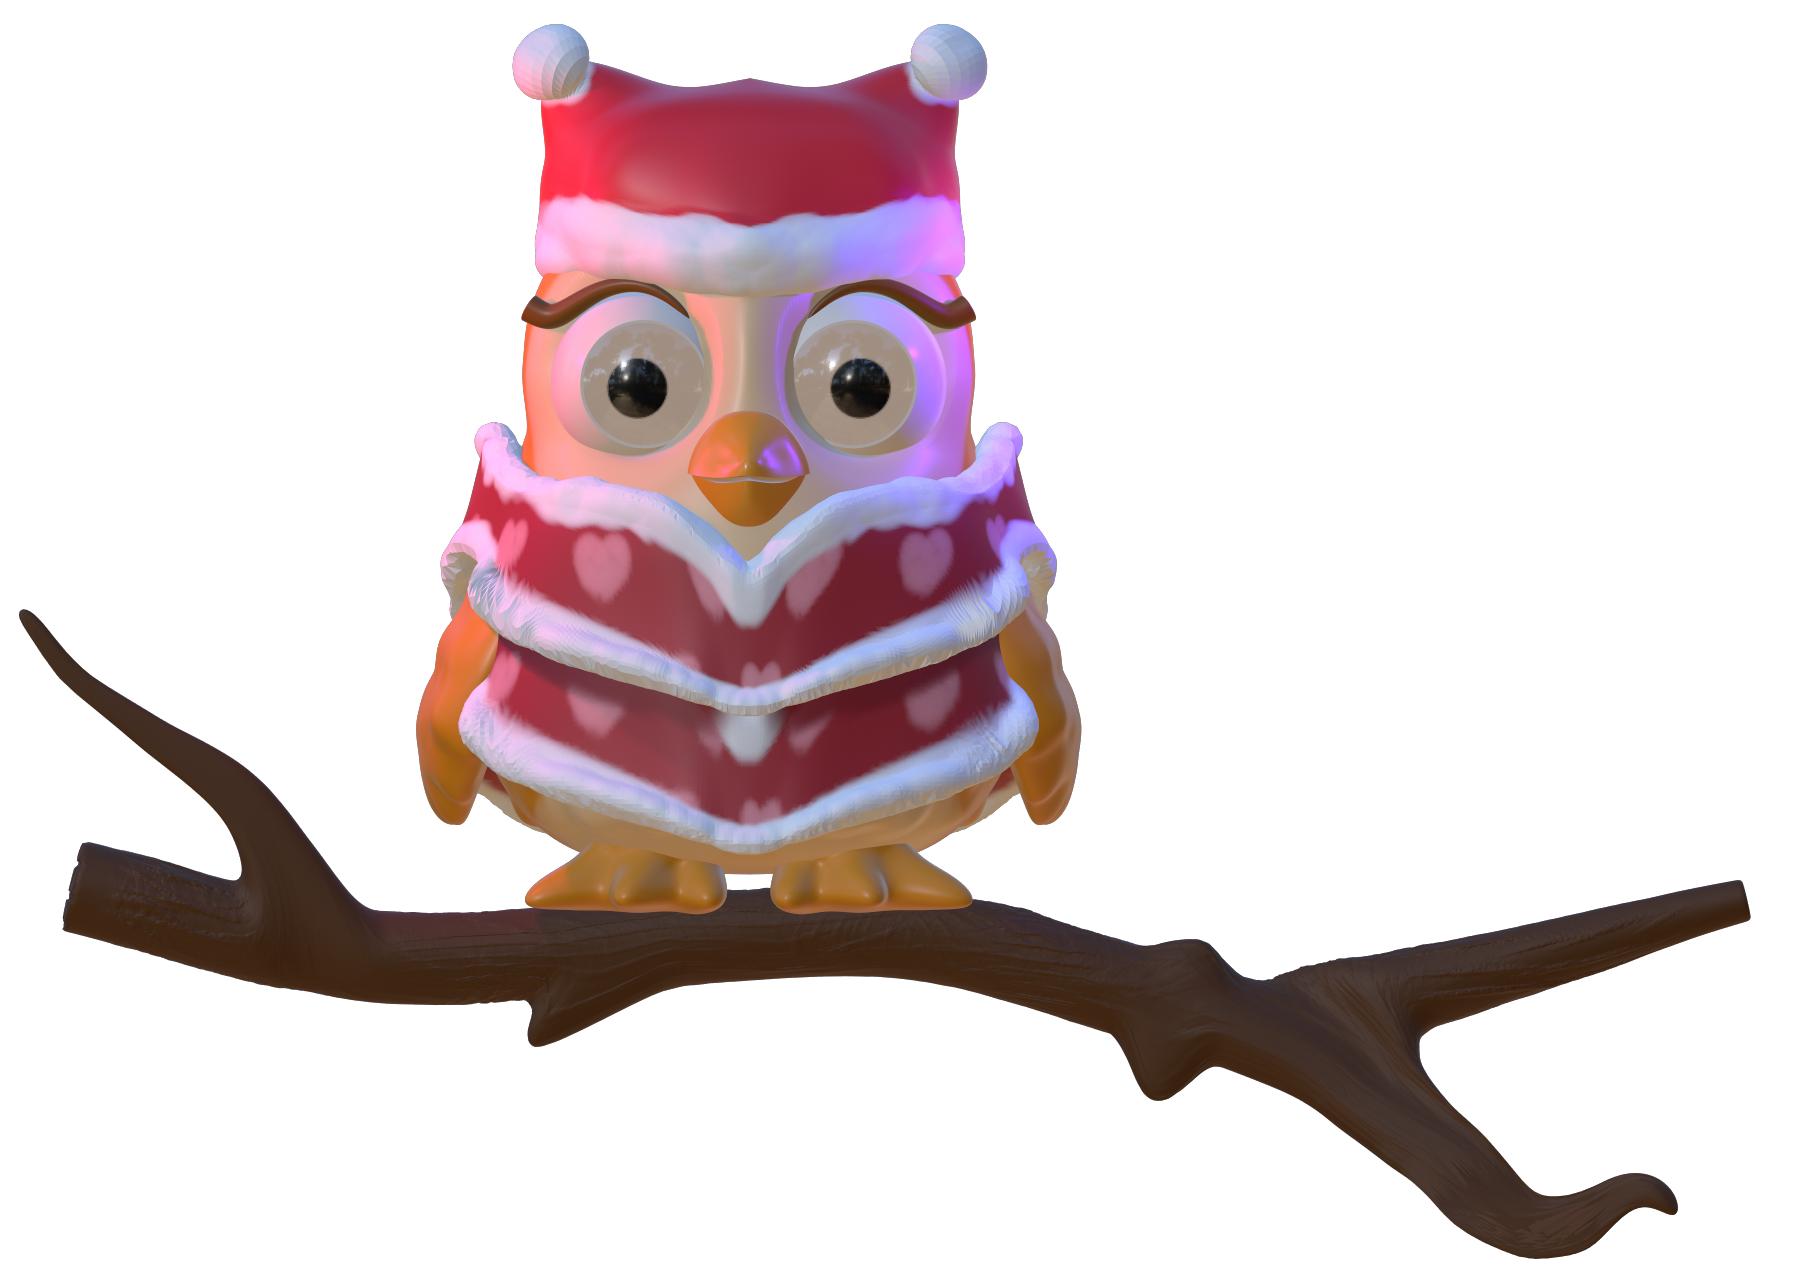
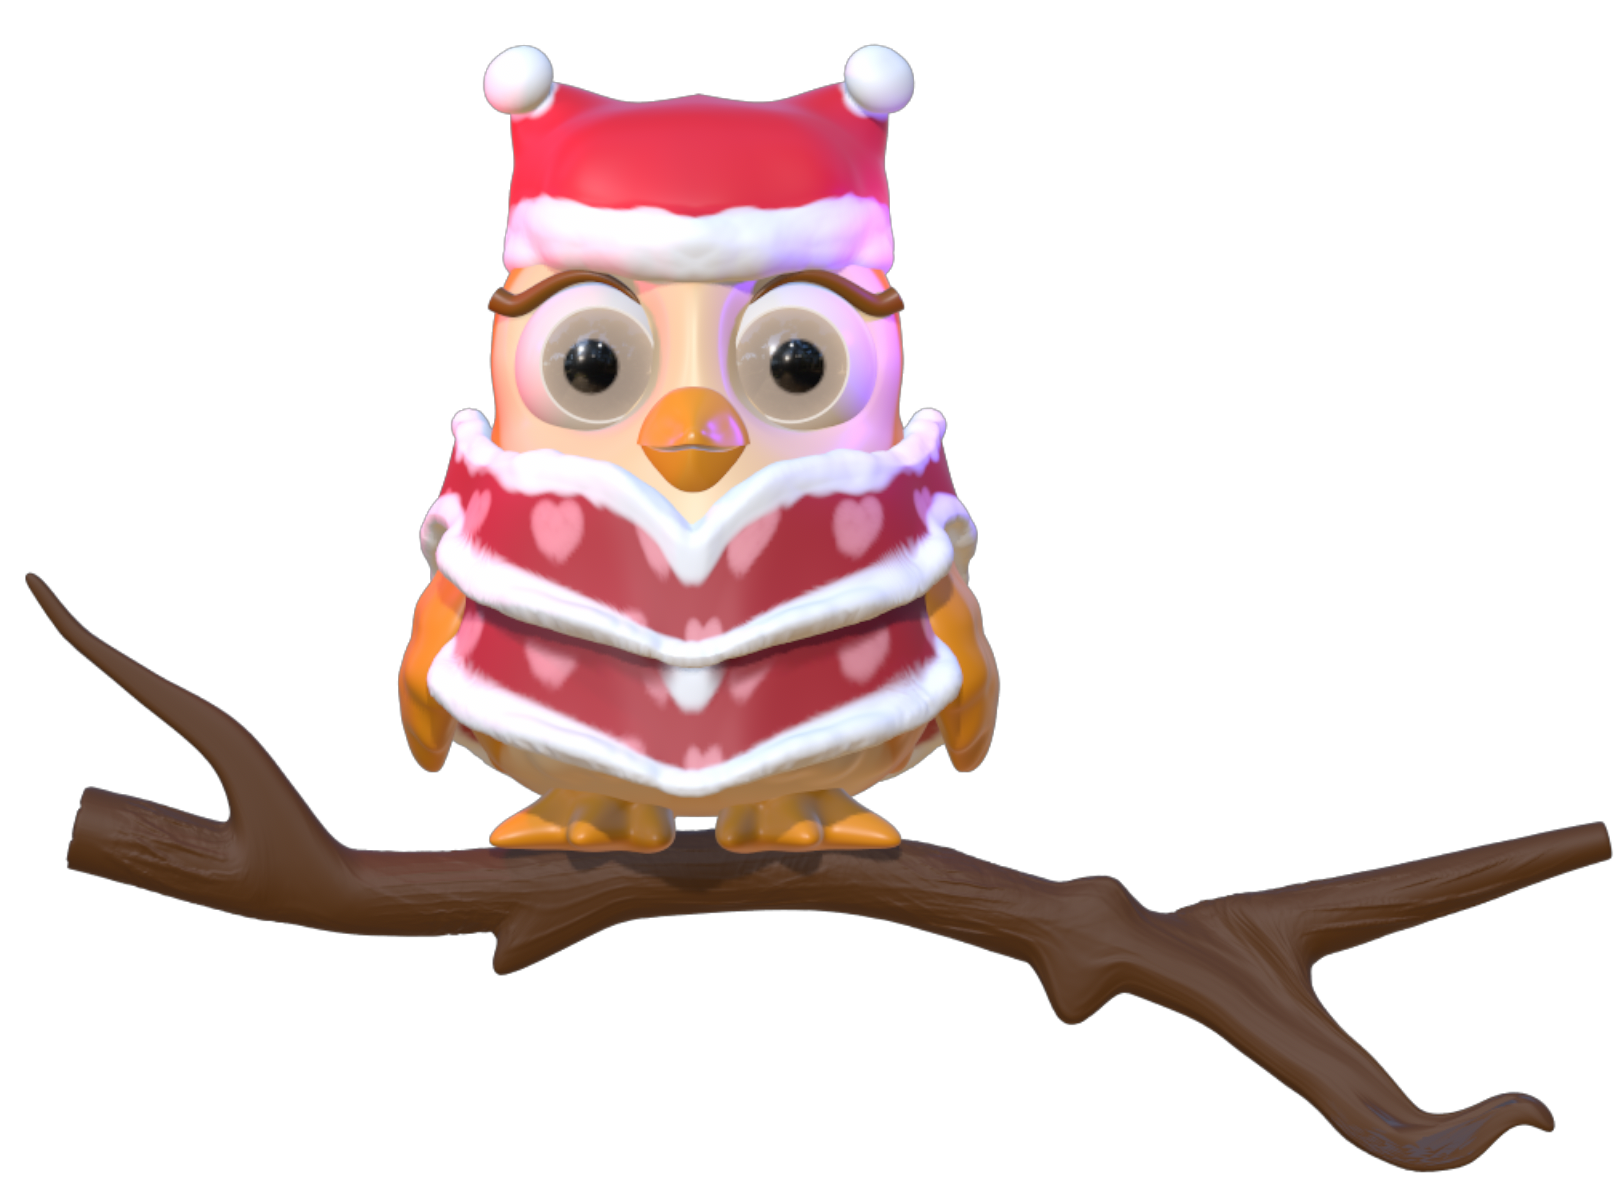
update reponsive

Changed region(s): [[0.0, 0.0, 1.0, 0.9975]]

diff --git a/3D.html b/3D.html
@@ -167,74 +167,76 @@
 
     <!-- 3D -->
     <div class="bg-3d">
-        <section class="sec header-3d-view">
-
-            <div class="content">
-                <div class="textBox">
-                    <h2>That's What<br><span>I Ejoin</span></h2>
-                    <p>Experiencing and discovering new things <br>is always on my mind.<br>
-                        Here are the 3D models that <br> I created during my discovery of the "Nomad Sculpt" app</p>
-                    <!-- <a href="#">View All Products</a> -->
-                </div>
-                <div class="imgBox">
-                    <div class="view-3d-item">
-                        <div class="view-model">
-                            <model-viewer camera-controls ar-modes="webxr scene-viewer quick-look" ar
-                                touch-action="pan-y" shadow-intensity="1" alt="A 3D
-                                model of a
-                                sphere" src="./style/3dFile/clound.glb" style="margin: auto; top: 0;
-                                bottom: 0; height: 100%; width: 100%;" class="modelView3D">
-                                <div class="progress-bar hide" slot="progress-bar">
-                                    <div class="update-bar"></div>
-                                </div>
-                                <button slot="ar-button" id="ar-button">
-                                    View in your space
-                                </button>
-                                <div id="ar-prompt">
-                                    <img src="./style/img/hand.png">
-                                </div>
-                            </model-viewer>
-
-
+        <section class="sec  header-3d-view">
+<div class="container">
+    <div class="content">
+        <div class="textBox">
+            <h2>That's What<br><span>I Ejoin</span></h2>
+            <p>Experiencing and discovering new things <br>is always on my mind.<br>
+                Here are the 3D models that <br> I created during my discovery of the "Nomad Sculpt" app</p>
+            <!-- <a href="#">View All Products</a> -->
+        </div>
+        <div class="imgBox">
+            <div class="view-3d-item">
+                <div class="view-model">
+                    <model-viewer camera-controls ar-modes="webxr scene-viewer quick-look" ar
+                        touch-action="pan-y" shadow-intensity="1" alt="A 3D
+                        model of a
+                        sphere" src="./style/3dFile/clound.glb" style="margin: auto; top: 0;
+                        bottom: 0; height: 100%; width: 100%;" class="modelView3D">
+                        <div class="progress-bar hide" slot="progress-bar">
+                            <div class="update-bar"></div>
                         </div>
+                        <button slot="ar-button" id="ar-button">
+                            View in your space
+                        </button>
+                        <div id="ar-prompt">
+                            <img src="./style/img/hand.png">
+                        </div>
+                    </model-viewer>
 
-
-                    </div>
 
                 </div>
+
+
             </div>
-            <ul class="thumb">
-                <li>
 
-                    <img src="./style/img/clound.png"
-                        onclick="imgSlider('./style/3dFile/clound.glb');
-                     changeBgColor('linear-gradient(180deg, rgba(255,233,243,1) 0%, rgba(170,188,222,1) 52%, rgba(181,213,255,1) 100%)')">
-                </li>
-                <li>
-                    <img src="./style/img/owl.png"
-                        onclick="imgSlider('./style/3dFile/owl/owl.glb');
-                     changeBgColor('linear-gradient(180deg, rgba(220,231,255,1) 0%, rgba(154,110,202,1) 63%, rgba(227,212,252,1) 100%)')">
-                </li>
+        </div>
+    </div>
+    <ul class="thumb">
+        <li>
 
-
-
-                <li>
-                    <img src="./style/img/cat.png"
-                        onclick="imgSlider('./style/3dFile/cat/cat.glb');
-                     changeBgColor('linear-gradient(180deg, rgba(220,231,255,1) 0%, rgba(154,110,202,1) 63%, rgba(227,212,252,1) 100%)')">
-                </li>
+            <img src="./style/img/clound.png"
+                onclick="imgSlider('./style/3dFile/clound.glb');
+             changeBgColor('linear-gradient(180deg, rgba(255,233,243,1) 0%, rgba(170,188,222,1) 52%, rgba(181,213,255,1) 100%)')">
+        </li>
+        <li>
+            <img src="./style/img/owl.png"
+                onclick="imgSlider('./style/3dFile/owl/owl.glb');
+             changeBgColor('linear-gradient(180deg, rgba(220,231,255,1) 0%, rgba(154,110,202,1) 63%, rgba(227,212,252,1) 100%)')">
+        </li>
 
 
-                <li>
-                    <img src="./style/img/crabDuc.png"
-                        onclick="imgSlider('./style/3dFile/crab.glb');changeBgColor('linear-gradient(180deg, rgba(238,174,202,1) 0%, rgba(163,149,207,1) 52%, rgba(218,234,254,1) 100%)')">
-                </li>
-                <li>
-                    <img src="./style/img/iocn3d.png"
-                        onclick="imgSlider('./style/3dFile/icon3dchat.glb');changeBgColor('linear-gradient(180deg, rgba(238,174,202,1) 0%, rgba(163,149,207,1) 52%, rgba(218,234,254,1) 100%)')">
-                </li>
-            </ul>
 
+        <li>
+            <img src="./style/img/cat.png"
+                onclick="imgSlider('./style/3dFile/cat/cat.glb');
+             changeBgColor('linear-gradient(180deg, rgba(220,231,255,1) 0%, rgba(154,110,202,1) 63%, rgba(227,212,252,1) 100%)')">
+        </li>
+
+
+        <li>
+            <img src="./style/img/crabDuc.png"
+                onclick="imgSlider('./style/3dFile/crab.glb');changeBgColor('linear-gradient(180deg, rgba(238,174,202,1) 0%, rgba(163,149,207,1) 52%, rgba(218,234,254,1) 100%)')">
+        </li>
+        <li>
+            <img src="./style/img/iocn3d.png"
+                onclick="imgSlider('./style/3dFile/icon3dchat.glb');changeBgColor('linear-gradient(180deg, rgba(238,174,202,1) 0%, rgba(163,149,207,1) 52%, rgba(218,234,254,1) 100%)')">
+        </li>
+    </ul>
+
+</div>
+           
         </section>
     </div>
 

diff --git a/style/css/style.css b/style/css/style.css
@@ -780,6 +780,37 @@ nav.navbar-profile {
     .timeline ul li a {
         word-wrap: break-word !important; 
     }
+    /* 3d page */
+    .content {
+        display: flex;
+        flex-direction: column !important;
+    }
+    .content .textBox{
+        text-align: center !important;
+    }
+    .content .textBox h2 {
+        font-size: 30px !important;
+       
+        
+
+        
+    }
+    .content .textBox h2 span{
+        font-size: 50px !important;
+       
+    }
+    .content .textBox p{
+        font-size: 14px !important;
+        word-wrap: break-word !important; 
+        padding-top: 0 !important;
+    }
+    .content .imgBox{
+        padding: 0 !important;
+        height: 500px !important;
+    }
+    .col-md-6 {
+        width: 100% !important;
+    }
 }
 
 @media only screen and (device-width: 768px) {
@@ -800,6 +831,37 @@ nav.navbar-profile {
     }
     .contact-content .img-contact {
         text-align: center;
+    }
+    /* 3d page */
+    .content {
+        display: flex;
+        flex-direction: column !important;
+    }
+    .content .textBox{
+        text-align: center !important;
+    }
+    .content .textBox h2 {
+        font-size: 30px !important;
+       
+        
+
+        
+    }
+    .content .textBox h2 span{
+        font-size: 50px !important;
+       
+    }
+    .content .textBox p{
+        font-size: 14px !important;
+        word-wrap: break-word !important; 
+        padding-top: 0 !important;
+    }
+    .content .imgBox{
+        padding: 0 !important;
+        height: 500px !important;
+    }
+    .timeline{
+        width: 100% !important;
     }
     
 }
@@ -848,9 +910,42 @@ nav.navbar-profile {
     .contact-content .img-contact {
         text-align: center;
     }
+    /* 3d page */
+    .content {
+        display: flex;
+        flex-direction: column !important;
+    }
+    .content .textBox{
+        text-align: center !important;
+    }
+    .content .textBox h2 {
+        font-size: 30px !important;
+       
+        
+
+        
+    }
+    .content .textBox h2 span{
+        font-size: 50px !important;
+       
+    }
+    .content .textBox p{
+        font-size: 14px !important;
+        word-wrap: break-word !important; 
+        padding-top: 0 !important;
+    }
+    .content .imgBox{
+        padding: 0 !important;
+        height: 500px !important;
+    }
      /* contact page */
     .timeline ul li a {
         word-wrap: break-word !important; 
+        width: 60% !important;
+    }
+    .timeline{
+        width: 80% !important;
+        
     }
     
     /* For portrait layouts only */

diff --git a/style/css/3d.css b/style/css/3d.css
@@ -77,6 +77,7 @@ section {
 .content .textBox {
   position: relative;
   max-width: 600px;
+  padding-left: 40px;
 }
 
 .content .textBox h2 {
